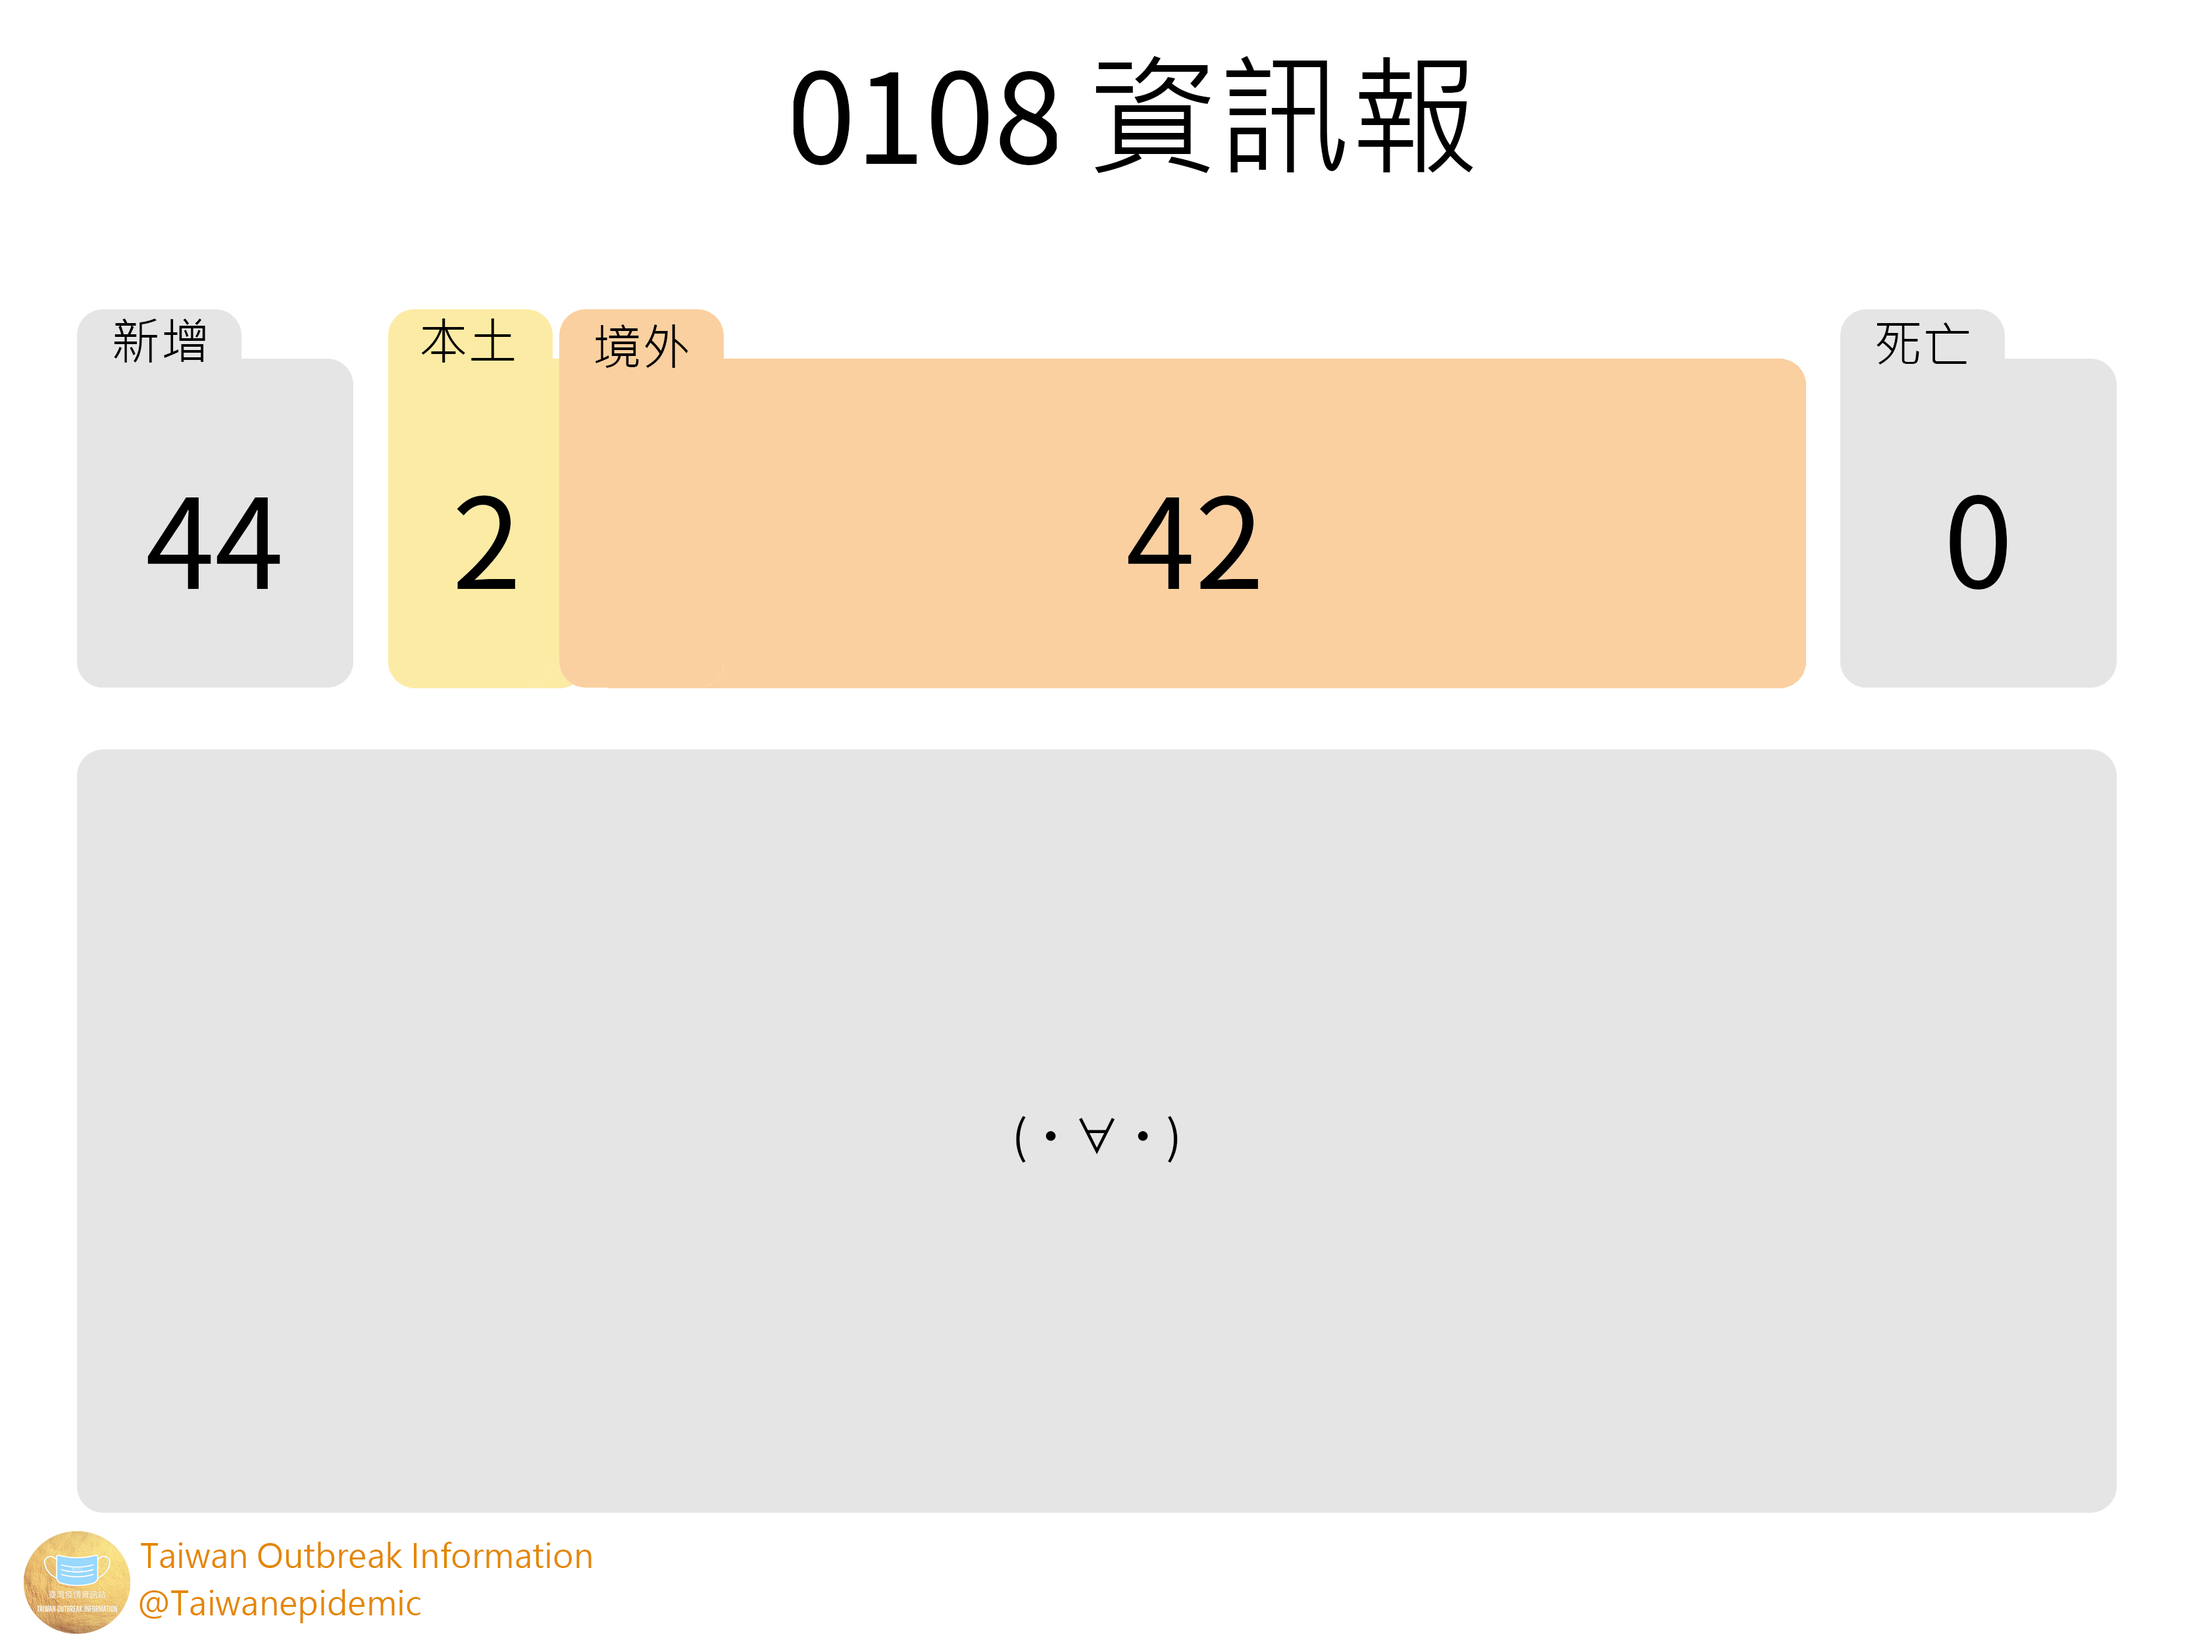
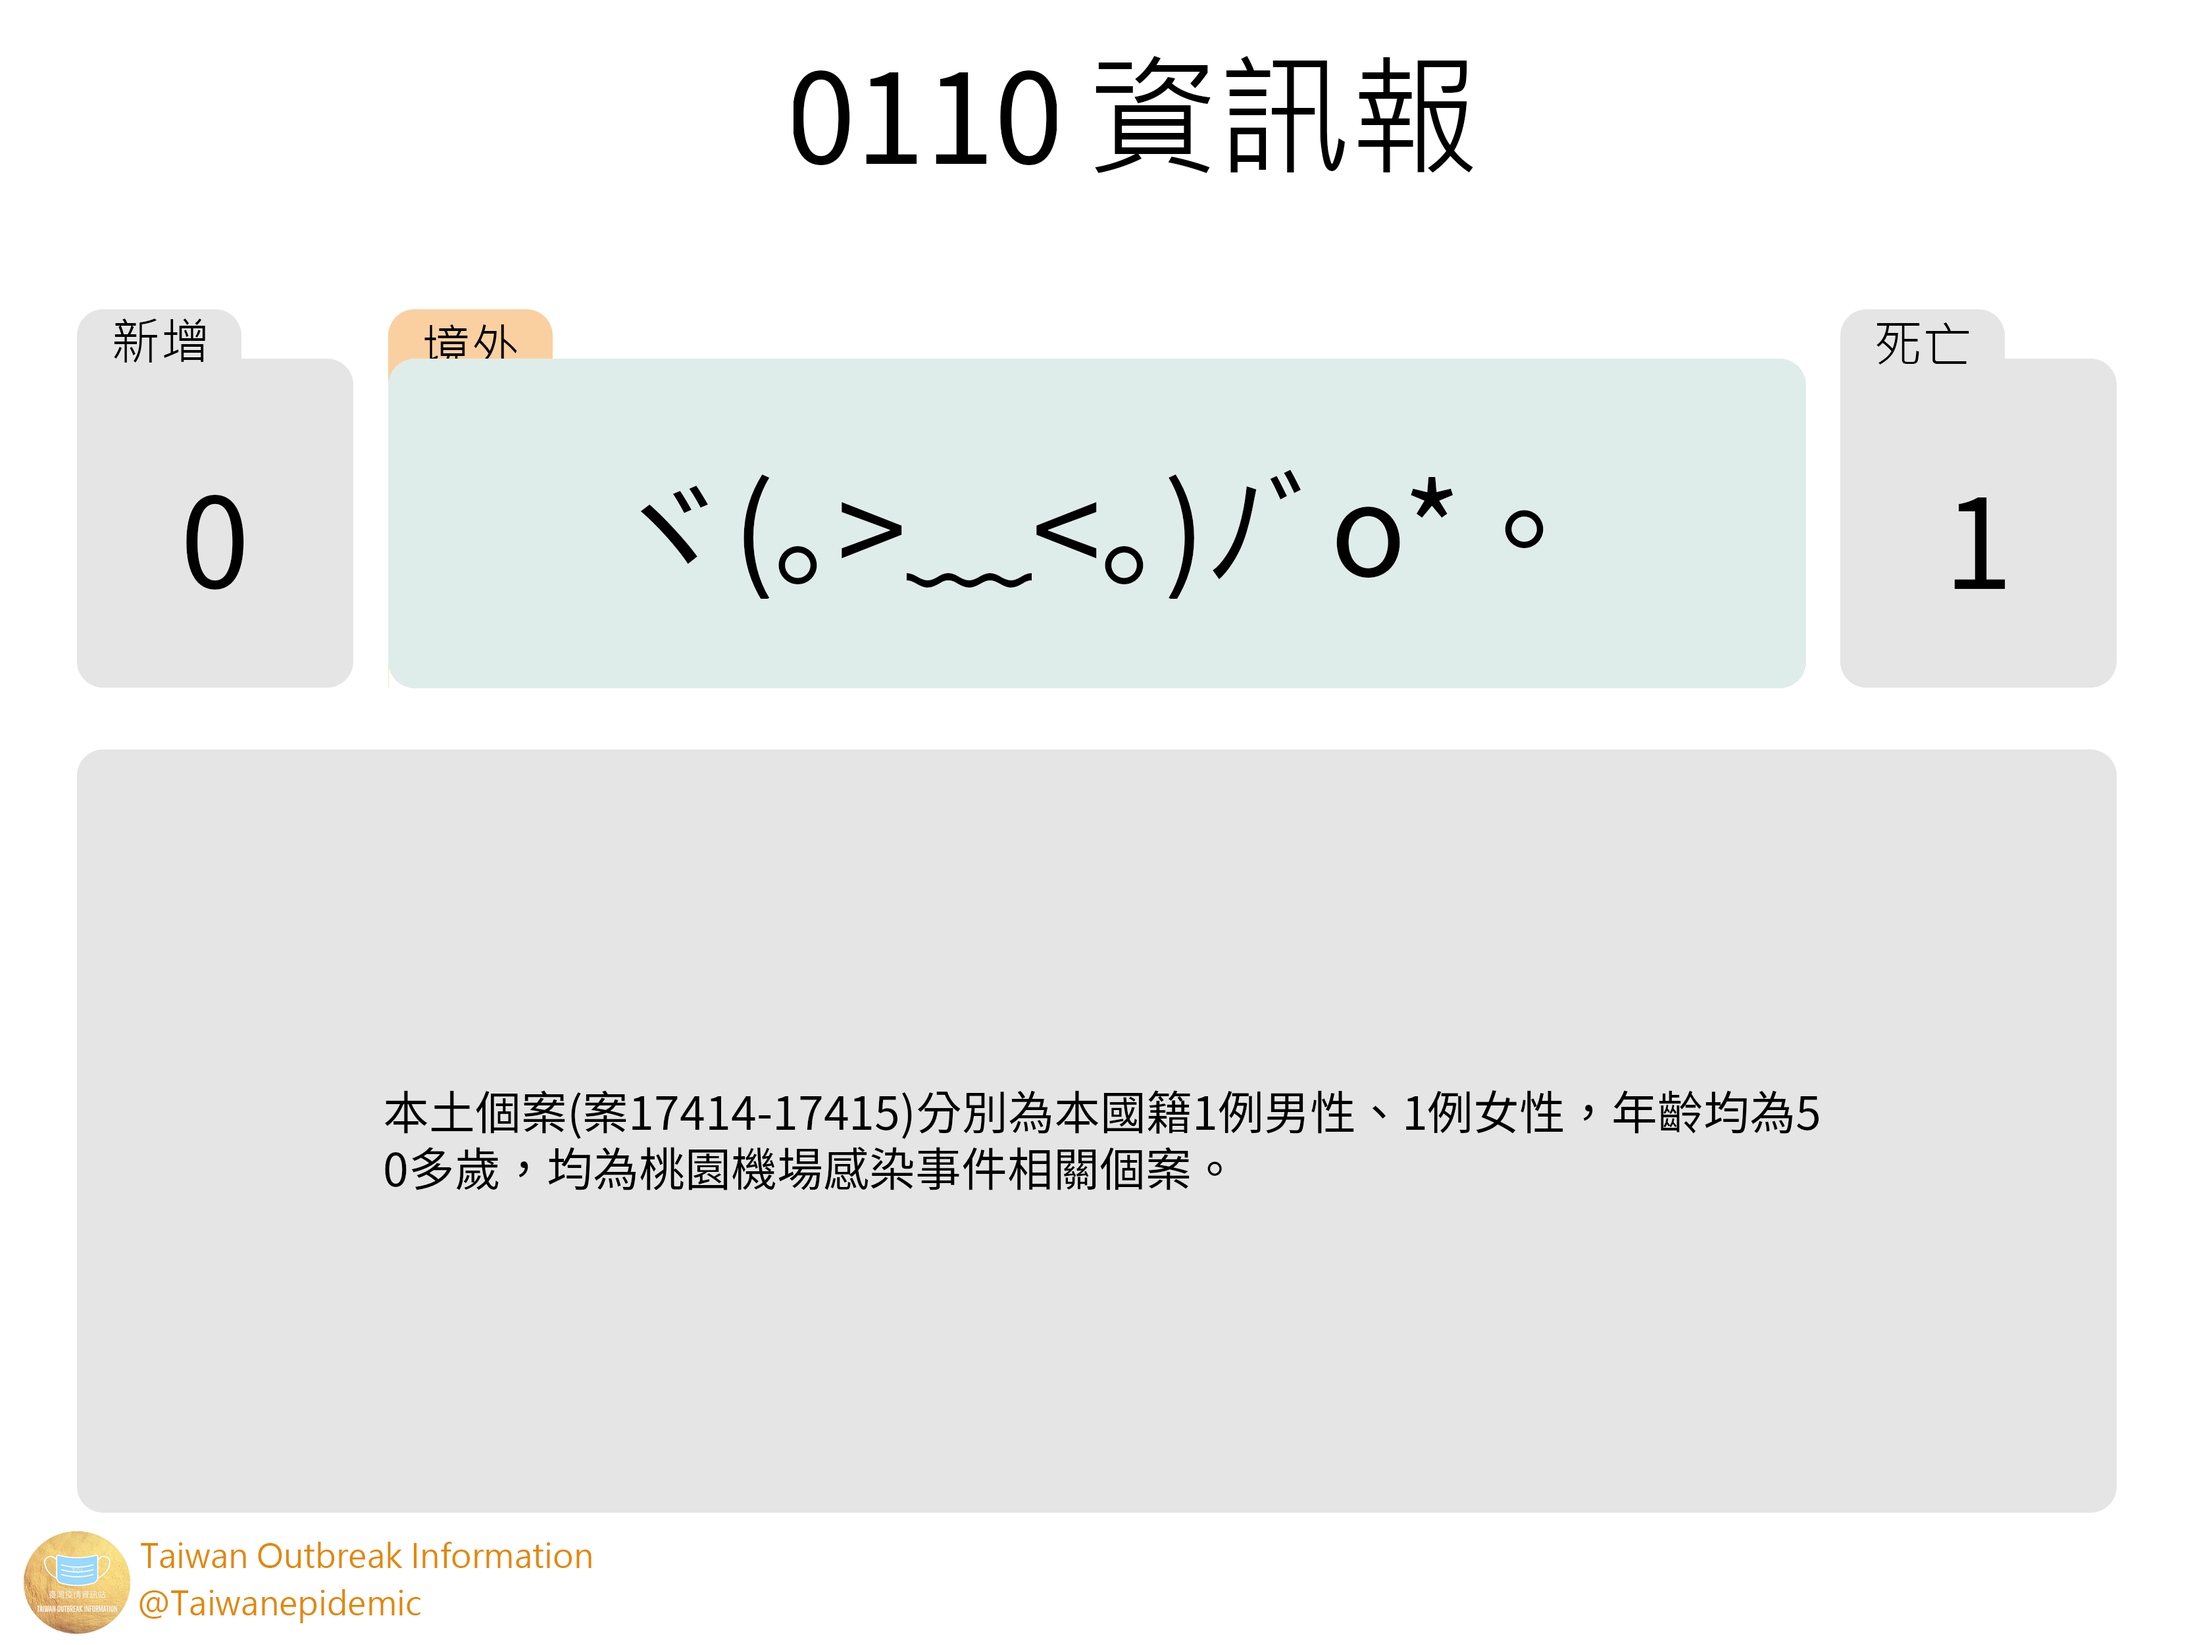
text wrap

diff --git a/pic.py b/pic.py
@@ -2,6 +2,7 @@
 # -*- coding: utf-8 -*-
 
 from PIL import ImageFont, ImageDraw, Image
+import textwrap
 import api
 import datetime
 from web_crawler import TodayConfirmed
@@ -93,7 +94,10 @@ def pic_new(date=None, today_confirmed=None, today_domestic=None, today_imported
     if today_death == None:
         today_death = str(today.today_deaths)
     if text == "(・∀・)":
-        pass
+        text = str(today.additional_text)
+
+    text = textwrap.fill(text, width=40, fix_sentence_endings=True, subsequent_indent=" ")
+
 
 
     confirmed_length = 2154
@@ -182,4 +186,4 @@ def pic_new(date=None, today_confirmed=None, today_domestic=None, today_imported
     return date
 
 
-#pic_new("0110", "0", "5", "5", "1")
+pic_new("0110", "0", "5", "5", "1")
